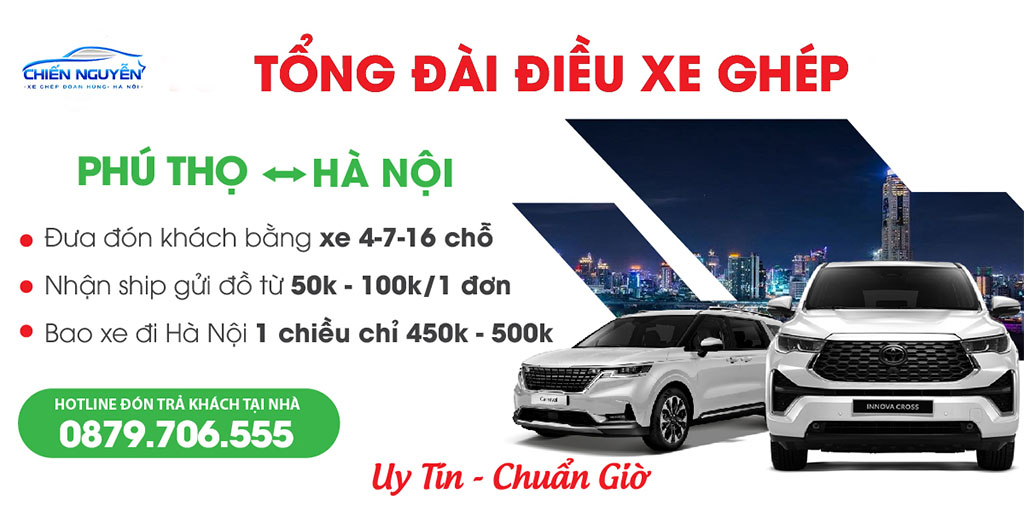
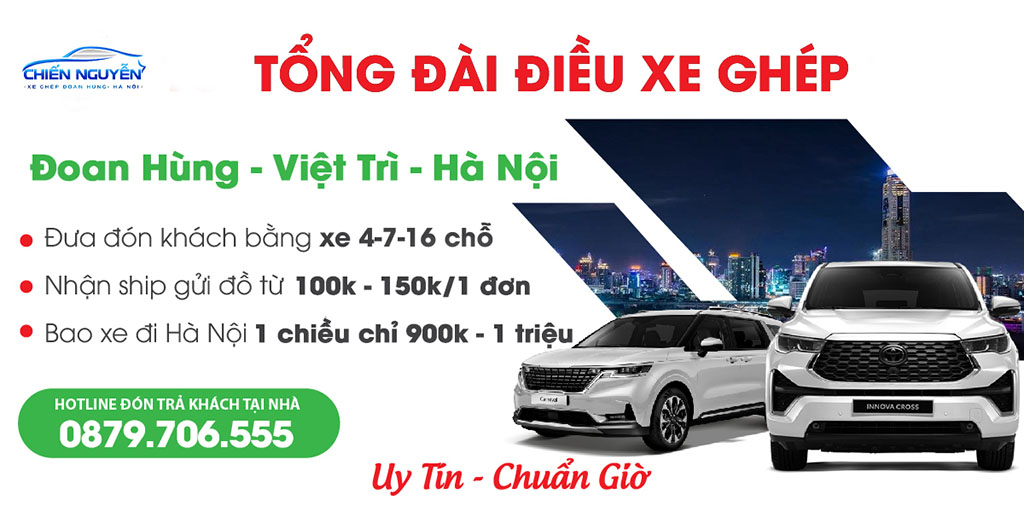
update source pic

Changed region(s): [[0.0312, 0.2812, 0.5625, 0.375], [0.25, 0.625, 0.5625, 0.6875], [0.2812, 0.5312, 0.5312, 0.5938]]

diff --git a/index.html b/index.html
@@ -1217,7 +1217,7 @@
                                     <div class="img has-hover x md-x lg-x y md-y lg-y" id="image_956730388">
                                         <div data-animate="fadeInRight">
                                             <div class="img-inner image-cover dark" style="padding-top:56%;">
-                                                <img loading="lazy" decoding="async" width="860" height="557" src="https://xeghepuytin.com/wp-content/uploads/2022/04/xe-oto.png" class="attachment-original size-original" alt="" srcset="https://xeghepuytin.com/wp-content/uploads/2022/04/xe-oto.png 860w, https://xeghepuytin.com/wp-content/uploads/2022/04/xe-oto-300x194.png 300w, https://xeghepuytin.com/wp-content/uploads/2022/04/xe-oto-768x497.png 768w"
+                                                <img loading="lazy" decoding="async" width="860" height="557" src="wp-content/uploads/2024/10/xe-oto.png" class="attachment-original size-original" alt="" srcset="wp-content/uploads/2024/10/xe-oto.png 860w, wp-content/uploads/2024/10/xe-oto-300x194.png 300w, wp-content/uploads/2024/10/xe-oto-768x497.png 768w"
                                                     sizes="(max-width: 860px) 100vw, 860px" />
                                             </div>
                                         </div>
@@ -1230,17 +1230,20 @@
 
                                     <div class="box_marquee_slider">
                                         <ul class="box_datxe">
-                                            <li class="first"><i class="fa fa-user-o"></i> Khách hàng: <b>Quỳnh Hương</b> vừa đặt xe đi tỉnh (092.xxx.668) <strong>830.000đ</strong></li>
-                                            <li><i class="fa fa-user-o"></i> Khách hàng: <b>Hoàng Chiến</b> vừa đặt xe đi tỉnh (0981.xxx.228) <strong>2.230.000đ</strong></li>
-                                            <li><i class="fa fa-user-o"></i> Khách hàng: <b>Đạt Mạnh</b> vừa đặt xe đi tỉnh (0922.xxx.122) <strong>840.000đ</strong></li>
-                                            <li><i class="fa fa-user-o"></i> Khách hàng: <b>Nguyễn Trang</b> vừa đặt xe sân bay (083.xxx.655) <strong>130.000đ</strong></li>
-                                            <li><i class="fa fa-user-o"></i> Khách hàng: <b>Nguyễn Trang </b>vừa đặt xe sân bay (083.xxx.655) <strong>130.000đ</strong></li>
-                                            <li class="first">Khách hàng: <b>Quỳnh Hương</b> vừa đặt xe đi tỉnh (092.xxx.668) <strong>830.000đ</strong></li>
-                                            <li><i class="fa fa-user-o"></i> Khách hàng: <b>Hoàng Chiến</b> vừa đặt xe đi tỉnh (0981.xxx.228) <strong>2.230.000đ</strong></li>
-                                            <li><i class="fa fa-user-o"></i> Khách hàng: <b>Đạt Mạnh</b> vừa đặt xe đi tỉnh (0922.xxx.122) <strong>840.000đ</strong></li>
-                                            <li class="first">Khách hàng: <b>Quỳnh Hương</b> vừa đặt xe đi tỉnh (092.xxx.668) <strong>830.000đ</strong></li>
-                                            <li><i class="fa fa-user-o"></i> Khách hàng: <b>Hoàng Chiến</b> vừa đặt xe đi tỉnh (0981.xxx.228) <strong>2.230.000đ</strong></li>
-                                            <li><i class="fa fa-user-o"></i> Khách hàng: <b>Đạt Mạnh</b> vừa đặt xe đi tỉnh (0922.xxx.122) <strong>840.000đ</strong></li>
+                                            <li class="first"><i class="fa fa-user-o"></i> Khách hàng: <b>Hồng Hiệp</b> vừa đặt xe đi tỉnh (092.xxx.668) <strong>830.000đ</strong></li>
+                                            <li><i class="fa fa-user-o"></i> Khách hàng: <b>Trung Hiếu</b> vừa đặt xe đi tỉnh (0981.xxx.228) <strong>2.230.000đ</strong></li>
+                                            <li><i class="fa fa-user-o"></i> Khách hàng: <b>Phạm Tâm</b> vừa đặt xe đi tỉnh (0922.xxx.122) <strong>840.000đ</strong></li>
+                                            <li><i class="fa fa-user-o"></i> Khách hàng: <b>Gia Huy</b> vừa đặt xe sân bay (083.xxx.655) <strong>130.000đ</strong></li>
+                                            <li class="first"><i class="fa fa-user-o"></i> Khách hàng: <b>Hồng Hiệp</b> vừa đặt xe đi tỉnh (092.xxx.668) <strong>830.000đ</strong></li>
+                                            <li><i class="fa fa-user-o"></i> Khách hàng: <b>Trung Hiếu</b> vừa đặt xe đi tỉnh (0981.xxx.228) <strong>2.230.000đ</strong></li>
+                                            <li><i class="fa fa-user-o"></i> Khách hàng: <b>Phạm Tâm</b> vừa đặt xe đi tỉnh (0922.xxx.122) <strong>840.000đ</strong></li>
+                                            <li><i class="fa fa-user-o"></i> Khách hàng: <b>Gia Huy</b> vừa đặt xe sân bay (083.xxx.655) <strong>130.000đ</strong></li>
+                                            <li><i class="fa fa-user-o"></i> Khách hàng: <b>Hạnh Nguyễn </b>vừa đặt xe sân bay (083.xxx.655) <strong>130.000đ</strong></li>
+                                            <li class="first"><i class="fa fa-user-o"></i> Khách hàng: <b>Hồng Hiệp</b> vừa đặt xe đi tỉnh (092.xxx.668) <strong>830.000đ</strong></li>
+                                            <li><i class="fa fa-user-o"></i> Khách hàng: <b>Trung Hiếu</b> vừa đặt xe đi tỉnh (0981.xxx.228) <strong>2.230.000đ</strong></li>
+                                            <li><i class="fa fa-user-o"></i> Khách hàng: <b>Phạm Tâm</b> vừa đặt xe đi tỉnh (0922.xxx.122) <strong>840.000đ</strong></li>
+                                            <li><i class="fa fa-user-o"></i> Khách hàng: <b>Gia Huy</b> vừa đặt xe sân bay (083.xxx.655) <strong>130.000đ</strong></li>
+                                            <li><i class="fa fa-user-o"></i> Khách hàng: <b>Hạnh Nguyễn </b>vừa đặt xe sân bay (083.xxx.655) <strong>130.000đ</strong></li>
                                         </ul>
                                     </div>
                                 </div>
@@ -1262,7 +1265,7 @@
                         }
 
                         #section_515327238 .section-bg.bg-loaded {
-                            background-image: url(https://xeghepuytin.com/wp-content/uploads/2022/05/slider-81090.jpg);
+                            background-image: url(wp-content/uploads/2024/10/slider-81090.jpg);
                         }
 
                         #section_515327238 .ux-shape-divider--top svg {
@@ -1317,7 +1320,7 @@
                                             <div class="icon-box-img" style="width: 90px">
                                                 <div class="icon">
                                                     <div class="icon-inner">
-                                                        <img loading="lazy" decoding="async" width="250" height="182" src="https://xeghepuytin.com/wp-content/uploads/2022/04/xe-11.jpg" class="attachment-medium size-medium" alt="" /> </div>
+                                                        <img loading="lazy" decoding="async" width="250" height="182" src="wp-content/uploads/2024/10/xe-11.jpg" class="attachment-medium size-medium" alt="" /> </div>
                                                 </div>
                                             </div>
                                             <div class="icon-box-text last-reset">
@@ -1342,7 +1345,7 @@
                                             <div class="icon-box-img" style="width: 113px">
                                                 <div class="icon">
                                                     <div class="icon-inner">
-                                                        <img loading="lazy" decoding="async" width="300" height="173" src="https://xeghepuytin.com/wp-content/uploads/2022/05/taxi-duong-dai-300x173-1.png" class="attachment-medium size-medium" alt="" />                                                        </div>
+                                                        <img loading="lazy" decoding="async" width="300" height="173" src="wp-content/uploads/asset/taxi-duong-dai-300x173-1.png" class="attachment-medium size-medium" alt="" />                                                        </div>
                                                 </div>
                                             </div>
                                             <div class="icon-box-text last-reset">
@@ -1367,7 +1370,7 @@
                                             <div class="icon-box-img" style="width: 112px">
                                                 <div class="icon">
                                                     <div class="icon-inner">
-                                                        <img loading="lazy" decoding="async" width="300" height="173" src="https://xeghepuytin.com/wp-content/uploads/2022/05/taxi-san-bay-1-300x173-1.png" class="attachment-medium size-medium" alt="" />                                                        </div>
+                                                        <img loading="lazy" decoding="async" width="300" height="173" src="wp-content/uploads/asset/taxi-san-bay-1-300x173-1.png" class="attachment-medium size-medium" alt="" />                                                        </div>
                                                 </div>
                                             </div>
                                             <div class="icon-box-text last-reset">
@@ -1392,7 +1395,7 @@
                                             <div class="icon-box-img" style="width: 112px">
                                                 <div class="icon">
                                                     <div class="icon-inner">
-                                                        <img loading="lazy" decoding="async" width="300" height="173" src="https://xeghepuytin.com/wp-content/uploads/2022/05/taxi-du-lich-300x173-1.png" class="attachment-medium size-medium" alt="" /> </div>
+                                                        <img loading="lazy" decoding="async" width="300" height="173" src="wp-content/uploads/asset/taxi-du-lich-300x173-1.png" class="attachment-medium size-medium" alt="" /> </div>
                                                 </div>
                                             </div>
                                             <div class="icon-box-text last-reset">
@@ -1416,11 +1419,11 @@
                                         <li>Giá vé ghép: 250k - 300k/1 ghế</li>
                                         <li>2 ghế: 500k</li>
                                         <li>Cam kết mỗi người 1 ghế</li>
-                                        <li>Bao hàng ghế sau: 700k</li>
+                                        <li>Bao hàng ghế sau: 700k - 750k</li>
                                         <li>Nhận Ship đồ hỏa tốc: chỉ từ 100 - 150k</li>
                                         <li>Đón trả khách tận nơi</li>
                                     </ul>
-                                    <p style="text-align: center;"><strong>Bảng giá áp dụng chiều Đoan Hùng &lt;-&gt; Việt Trì &lt;-&gt;Hà Nội</strong></p>
+                                    <p style="text-align: center;"><strong>Bảng giá chiều Đoan Hùng &lt;-&gt; Việt Trì &lt;-&gt;Hà Nội</strong></p>
                                 </div>
                             </div>
 
@@ -1432,13 +1435,13 @@
 
                                     <h4>BẢNG GIÁ BAO XE</h4>
                                     <ul>
-                                        <li>Bao xe 900k=&gt;1 triệu</li>
+                                        <li>Bao xe 900k =&gt; 1 triệu</li>
                                         <li>Gửi đồ chỉ từ 100k - 150k</li>
                                         <li>Taxi gia đình 10k/1km</li>
                                         <li>Phí đường bộ khách thanh toán (nếu có)</li>
                                         <li>Xe rộng rãi, sạch sẽ, không mùi, không say, lái xe chuyên nghiệp</li>
                                     </ul>
-                                    <p style="text-align: center;"><strong>Bảng giá áp dụng chiều Đoan Hùng &lt;-&gt; Việt Trì &lt;-&gt;Hà Nội</strong></p>
+                                    <p style="text-align: center;"><strong>Bảng giá chiều Đoan Hùng &lt;-&gt; Việt Trì &lt;-&gt;Hà Nội</strong></p>
                                 </div>
                             </div>
 
@@ -1451,7 +1454,7 @@
                                     <div class="img has-hover x md-x lg-x y md-y lg-y" id="image_906864528">
                                         <a class="" href="tel:0879706555">
                                             <div class="img-inner dark">
-                                                <img loading="lazy" decoding="async" width="800" height="147" src="https://xeghepuytin.com/wp-content/uploads/2024/03/contact-now-ontop.gif" class="attachment-original size-original" alt="" />
+                                                <img loading="lazy" decoding="async" width="800" height="147" src="wp-content/uploads/asset/contact-now-ontop.gif" class="attachment-original size-original" alt="" />
                                             </div>
                                         </a>
                                         <style>
@@ -1509,7 +1512,7 @@
 
                                     <div id="text-2629567561" class="text title-tour title-dichvu">
 
-                                        <h2>XE GHEP NHANH UY TÍN 24H</h2>
+                                        <h2>XE GHÉP NHANH UY TÍN 24H</h2>
                                         <p>An toàn trên mọi nẻo đường</p>
                                     </div>
 
@@ -1527,7 +1530,7 @@
                                         <div class="icon-box-img" style="width: 200px">
                                             <div class="icon">
                                                 <div class="icon-inner">
-                                                    <img loading="lazy" decoding="async" width="300" height="173" src="https://xeghepuytin.com/wp-content/uploads/2022/05/xe-111.jpg" class="attachment-medium size-medium" alt="" /> </div>
+                                                    <img loading="lazy" decoding="async" width="300" height="173" src="wp-content/uploads/2024/10/xe-111.jpg" class="attachment-medium size-medium" alt="" /> </div>
                                             </div>
                                         </div>
                                         <div class="icon-box-text last-reset">
@@ -1558,7 +1561,7 @@
                                         <div class="icon-box-img" style="width: 200px">
                                             <div class="icon">
                                                 <div class="icon-inner">
-                                                    <img loading="lazy" decoding="async" width="300" height="173" src="https://xeghepuytin.com/wp-content/uploads/2022/05/taxi-duong-dai-300x173-1.png" class="attachment-medium size-medium" alt="" /> </div>
+                                                    <img loading="lazy" decoding="async" width="300" height="173" src="wp-content/uploads/asset/taxi-duong-dai-300x173-1.png" class="attachment-medium size-medium" alt="" /> </div>
                                             </div>
                                         </div>
                                         <div class="icon-box-text last-reset">
@@ -1589,7 +1592,7 @@
                                         <div class="icon-box-img" style="width: 200px">
                                             <div class="icon">
                                                 <div class="icon-inner">
-                                                    <img loading="lazy" decoding="async" width="300" height="173" src="https://xeghepuytin.com/wp-content/uploads/2022/05/taxi-san-bay-1-300x173-1.png" class="attachment-medium size-medium" alt="" /> </div>
+                                                    <img loading="lazy" decoding="async" width="300" height="173" src="wp-content/uploads/asset/taxi-san-bay-1-300x173-1.png" class="attachment-medium size-medium" alt="" /> </div>
                                             </div>
                                         </div>
                                         <div class="icon-box-text last-reset">
@@ -1620,7 +1623,7 @@
                                         <div class="icon-box-img" style="width: 200px">
                                             <div class="icon">
                                                 <div class="icon-inner">
-                                                    <img loading="lazy" decoding="async" width="300" height="173" src="https://xeghepuytin.com/wp-content/uploads/2022/05/taxi-du-lich-300x173-1.png" class="attachment-medium size-medium" alt="" /> </div>
+                                                    <img loading="lazy" decoding="async" width="300" height="173" src="wp-content/uploads/asset/taxi-du-lich-300x173-1.png" class="attachment-medium size-medium" alt="" /> </div>
                                             </div>
                                         </div>
                                         <div class="icon-box-text last-reset">
@@ -1778,7 +1781,7 @@
 
                                     <div class="img has-hover x md-x lg-x y md-y lg-y" id="image_1151487578">
                                         <div class="img-inner dark">
-                                            <img loading="lazy" decoding="async" width="860" height="557" src="https://xeghepuytin.com/wp-content/uploads/2022/04/xe-oto.png" class="attachment-large size-large" alt="" srcset="https://xeghepuytin.com/wp-content/uploads/2022/04/xe-oto.png 860w, https://xeghepuytin.com/wp-content/uploads/2022/04/xe-oto-300x194.png 300w, https://xeghepuytin.com/wp-content/uploads/2022/04/xe-oto-768x497.png 768w"
+                                            <img loading="lazy" decoding="async" width="860" height="557" src="wp-content/uploads/2024/10/xe-oto.png" class="attachment-large size-large" alt="" srcset="wp-content/uploads/2024/10/xe-oto.png 860w, wp-content/uploads/2024/10/xe-oto-300x194.png 300w, wp-content/uploads/2024/10/xe-oto-768x497.png 768w"
                                                 sizes="(max-width: 860px) 100vw, 860px" />
                                         </div>
 
@@ -1868,7 +1871,7 @@
                                                         <div class="icon-box-img" style="width: 90px">
                                                             <div class="icon">
                                                                 <div class="icon-inner">
-                                                                    <img loading="lazy" decoding="async" width="250" height="182" src="https://xeghepuytin.com/wp-content/uploads/2022/04/xe-11.jpg" class="attachment-medium size-medium" alt="" /> </div>
+                                                                    <img loading="lazy" decoding="async" width="250" height="182" src="wp-content/uploads/2024/10/xe-11.jpg" class="attachment-medium size-medium" alt="" /> </div>
                                                             </div>
                                                         </div>
                                                         <div class="icon-box-text last-reset">
@@ -1893,7 +1896,7 @@
                                                         <div class="icon-box-img" style="width: 90px">
                                                             <div class="icon">
                                                                 <div class="icon-inner">
-                                                                    <img loading="lazy" decoding="async" width="250" height="182" src="https://xeghepuytin.com/wp-content/uploads/2022/04/xe-11.jpg" class="attachment-medium size-medium" alt="" /> </div>
+                                                                    <img loading="lazy" decoding="async" width="250" height="182" src="wp-content/uploads/2024/10/xe-11.jpg" class="attachment-medium size-medium" alt="" /> </div>
                                                             </div>
                                                         </div>
                                                         <div class="icon-box-text last-reset">
@@ -1918,7 +1921,7 @@
                                                         <div class="icon-box-img" style="width: 90px">
                                                             <div class="icon">
                                                                 <div class="icon-inner">
-                                                                    <img loading="lazy" decoding="async" width="250" height="182" src="https://xeghepuytin.com/wp-content/uploads/2022/04/xe-11.jpg" class="attachment-medium size-medium" alt="" /> </div>
+                                                                    <img loading="lazy" decoding="async" width="250" height="182" src="wp-content/uploads/2024/10/xe-11.jpg" class="attachment-medium size-medium" alt="" /> </div>
                                                             </div>
                                                         </div>
                                                         <div class="icon-box-text last-reset">
@@ -2011,7 +2014,7 @@
                                                 <div class="col-inner">
                                                     <div class="img has-hover x md-x lg-x y md-y lg-y" id="image_801926507">
                                                         <div class="img-inner dark">
-                                                            <img loading="lazy" decoding="async" width="960" height="640" src="https://xeghepuytin.com/wp-content/uploads/2022/04/458.jpg" class="attachment-large size-large" alt="" srcset="https://xeghepuytin.com/wp-content/uploads/2022/04/458.jpg 960w, https://xeghepuytin.com/wp-content/uploads/2022/04/458-300x200.jpg 300w, https://xeghepuytin.com/wp-content/uploads/2022/04/458-768x512.jpg 768w"
+                                                            <img loading="lazy" decoding="async" width="960" height="640" src="wp-content/uploads/2024/10/Xpander-Puzzle.jpg" class="attachment-large size-large" alt="" srcset="wp-content/uploads/2024/10/Xpander-Puzzle.jpg 960w, wp-content/uploads/2024/10/Xpander-Puzzle-300x200.jpg 300w, wp-content/uploads/2024/10/Xpander-Puzzle-768x512.jpg 768w"
                                                                 sizes="(max-width: 960px) 100vw, 960px" />
                                                         </div>
 
@@ -2062,7 +2065,7 @@
                                                 <div class="col-inner">
                                                     <div class="img has-hover x md-x lg-x y md-y lg-y" id="image_1060990837">
                                                         <div class="img-inner dark">
-                                                            <img loading="lazy" decoding="async" width="960" height="880" src="https://xeghepuytin.com/wp-content/uploads/2024/03/Kia-carnival.jpg" class="attachment-original size-original" alt="" srcset="https://xeghepuytin.com/wp-content/uploads/2024/03/Kia-carnival.jpg 960w, https://xeghepuytin.com/wp-content/uploads/2024/03/Kia-carnival-300x275.jpg 300w, https://xeghepuytin.com/wp-content/uploads/2024/03/Kia-carnival-768x704.jpg 768w"
+                                                            <img loading="lazy" decoding="async" width="960" height="880" src="wp-content/uploads/2024/10/Toyota-Grand-i10.jpg" class="attachment-original size-original" alt="" srcset="wp-content/uploads/2024/10/Toyota-Grand-i10.jpg 960w, wp-content/uploads/2024/10/Toyota-Grand-i10-300x275.jpg 300w, wp-content/uploads/2024/10/Toyota-Grand-i10-768x704.jpg 768w"
                                                                 sizes="(max-width: 960px) 100vw, 960px" />
                                                         </div>
 
@@ -2167,7 +2170,7 @@
 
                                     <div class="img has-hover x md-x lg-x y md-y lg-y" id="image_1175720155">
                                         <div class="img-inner dark">
-                                            <img loading="lazy" decoding="async" width="462" height="572" src="https://xeghepuytin.com/wp-content/uploads/2022/04/z2997631695436_ef899ec0625ea2cc4641cfd62f670c90-20211206083055.jpg" class="attachment-large size-large" alt="" srcset="https://xeghepuytin.com/wp-content/uploads/2022/04/z2997631695436_ef899ec0625ea2cc4641cfd62f670c90-20211206083055.jpg 462w, https://xeghepuytin.com/wp-content/uploads/2022/04/z2997631695436_ef899ec0625ea2cc4641cfd62f670c90-20211206083055-242x300.jpg 242w"
+                                            <img loading="lazy" decoding="async" width="462" height="572" src="wp-content/uploads/2024/feedback/z2997631695436_ef899ec0625ea2cc4641cfd62f670c90-20211206083055.jpg" class="attachment-large size-large" alt="" srcset="wp-content/uploads/2024/feedback/z2997631695436_ef899ec0625ea2cc4641cfd62f670c90-20211206083055.jpg 462w, wp-content/uploads/2024/feedback/z2997631695436_ef899ec0625ea2cc4641cfd62f670c90-20211206083055-242x300.jpg 242w"
                                                 sizes="(max-width: 462px) 100vw, 462px" />
                                         </div>
 
@@ -2189,7 +2192,7 @@
 
                                     <div class="img has-hover x md-x lg-x y md-y lg-y" id="image_395812217">
                                         <div class="img-inner dark">
-                                            <img loading="lazy" decoding="async" width="462" height="570" src="https://xeghepuytin.com/wp-content/uploads/2022/04/z2997631711880_8a3af0b26fe4e016c6f8ec89924b88a8-20211206083055.jpg" class="attachment-large size-large" alt="" srcset="https://xeghepuytin.com/wp-content/uploads/2022/04/z2997631711880_8a3af0b26fe4e016c6f8ec89924b88a8-20211206083055.jpg 462w, https://xeghepuytin.com/wp-content/uploads/2022/04/z2997631711880_8a3af0b26fe4e016c6f8ec89924b88a8-20211206083055-243x300.jpg 243w"
+                                            <img loading="lazy" decoding="async" width="462" height="570" src="wp-content/uploads/2024/feedback/z2997631711880_8a3af0b26fe4e016c6f8ec89924b88a8-20211206083055.jpg" class="attachment-large size-large" alt="" srcset="wp-content/uploads/2024/feedback/z2997631711880_8a3af0b26fe4e016c6f8ec89924b88a8-20211206083055.jpg 462w, wp-content/uploads/2024/feedback/z2997631711880_8a3af0b26fe4e016c6f8ec89924b88a8-20211206083055-243x300.jpg 243w"
                                                 sizes="(max-width: 462px) 100vw, 462px" />
                                         </div>
 
@@ -2211,7 +2214,7 @@
 
                                     <div class="img has-hover x md-x lg-x y md-y lg-y" id="image_1864745581">
                                         <div class="img-inner dark">
-                                            <img loading="lazy" decoding="async" width="463" height="569" src="https://xeghepuytin.com/wp-content/uploads/2022/04/z2997631712145_060fc20ad6622ae99d75ed6ccaa0979f-20211206083055.jpg" class="attachment-large size-large" alt="" srcset="https://xeghepuytin.com/wp-content/uploads/2022/04/z2997631712145_060fc20ad6622ae99d75ed6ccaa0979f-20211206083055.jpg 463w, https://xeghepuytin.com/wp-content/uploads/2022/04/z2997631712145_060fc20ad6622ae99d75ed6ccaa0979f-20211206083055-244x300.jpg 244w"
+                                            <img loading="lazy" decoding="async" width="463" height="569" src="wp-content/uploads/2024/feedback/z2997631712145_060fc20ad6622ae99d75ed6ccaa0979f-20211206083055.jpg" class="attachment-large size-large" alt="" srcset="wp-content/uploads/2024/feedback/z2997631712145_060fc20ad6622ae99d75ed6ccaa0979f-20211206083055.jpg 463w, wp-content/uploads/2024/feedback/z2997631712145_060fc20ad6622ae99d75ed6ccaa0979f-20211206083055-244x300.jpg 244w"
                                                 sizes="(max-width: 463px) 100vw, 463px" />
                                         </div>
 
@@ -2233,7 +2236,7 @@
 
                                     <div class="img has-hover x md-x lg-x y md-y lg-y" id="image_634571560">
                                         <div class="img-inner dark">
-                                            <img loading="lazy" decoding="async" width="463" height="578" src="https://xeghepuytin.com/wp-content/uploads/2022/04/z2997631717455_0221a169320acf60908ff90ac7047d6f-20211206083055.jpg" class="attachment-large size-large" alt="" srcset="https://xeghepuytin.com/wp-content/uploads/2022/04/z2997631717455_0221a169320acf60908ff90ac7047d6f-20211206083055.jpg 463w, https://xeghepuytin.com/wp-content/uploads/2022/04/z2997631717455_0221a169320acf60908ff90ac7047d6f-20211206083055-240x300.jpg 240w"
+                                            <img loading="lazy" decoding="async" width="463" height="578" src="wp-content/uploads/2024/feedback/z2997631717455_0221a169320acf60908ff90ac7047d6f-20211206083055.jpg" class="attachment-large size-large" alt="" srcset="wp-content/uploads/2024/feedback/z2997631717455_0221a169320acf60908ff90ac7047d6f-20211206083055.jpg 463w, wp-content/uploads/2024/feedback/z2997631717455_0221a169320acf60908ff90ac7047d6f-20211206083055-240x300.jpg 240w"
                                                 sizes="(max-width: 463px) 100vw, 463px" />
                                         </div>
 
@@ -2560,7 +2563,7 @@
                     <div class="phone-vr-circle-fill"></div>
                     <div class="phone-vr-img-circle">
                         <a target="_blank" href="https://zalo.me/0879706555">				
-								<img alt="Zalo" src="https://xeghepuytin.com/wp-content/plugins/button-contact-vr/img/zalo.png" />
+								<img alt="Zalo" src="wp-content/plugins/button-contact-vr/img/zalo.png" />
 							</a>
                     </div>
                 </div>
@@ -2574,7 +2577,7 @@
                     <div class="phone-vr-circle-fill"></div>
                     <div class="phone-vr-img-circle">
                         <a href="tel:0879706555">				
-								<img alt="Phone" src="https://xeghepuytin.com/wp-content/plugins/button-contact-vr/img/phone.png" />
+								<img alt="Phone" src="wp-content/plugins/button-contact-vr/img/phone.png" />
 							</a>
                     </div>
                 </div>
